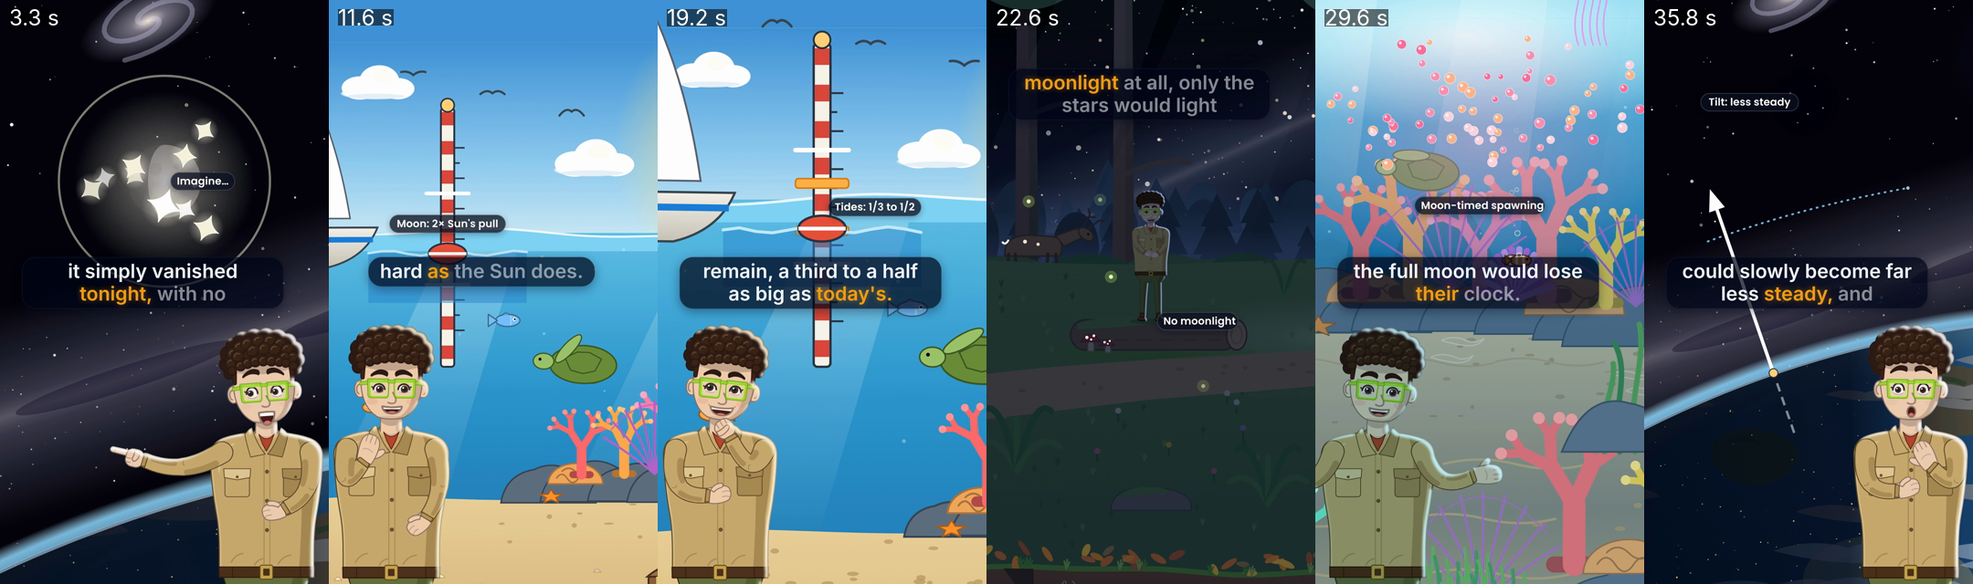
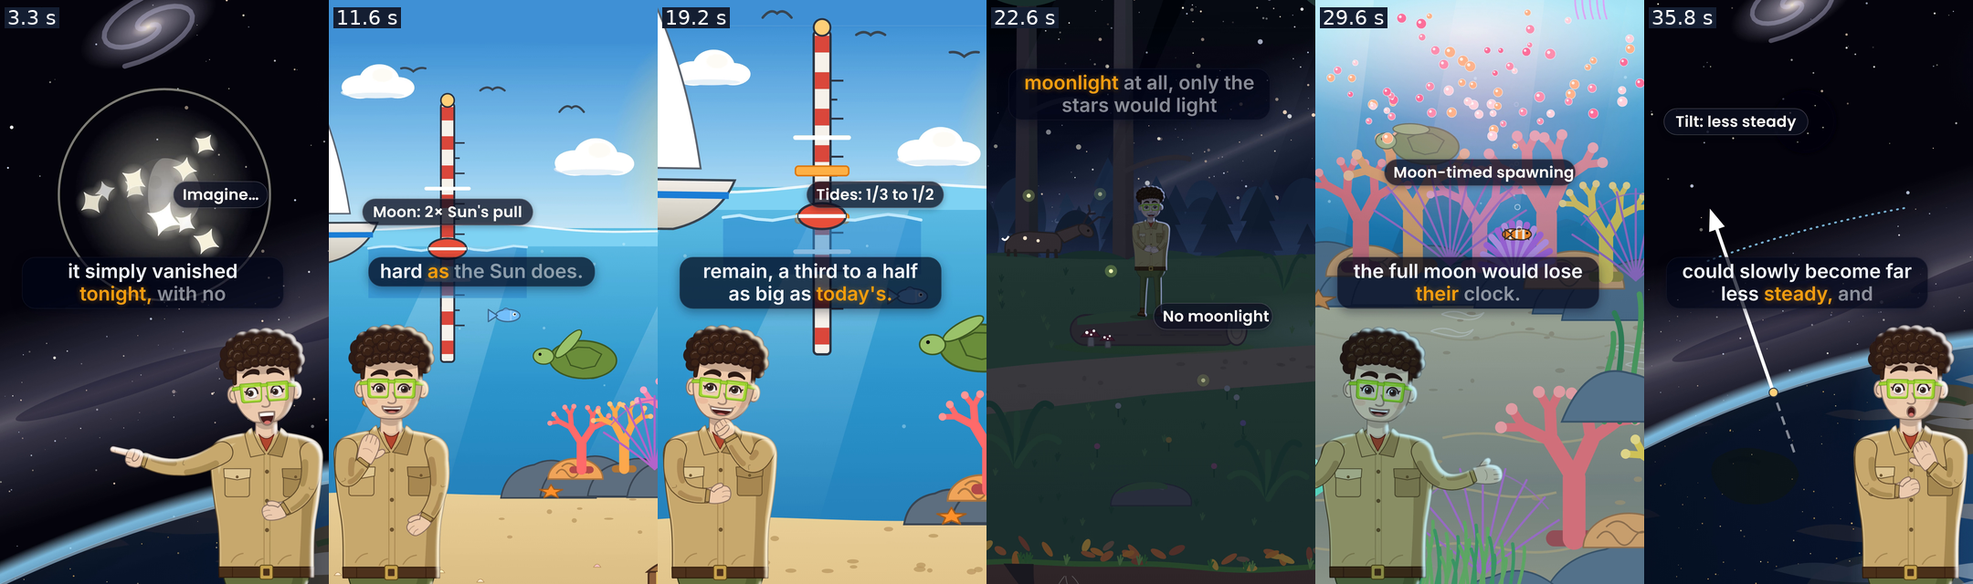
docs: vertical fixtures re-rendered with the new aim and text sizes
Lift pans removed (the camera now frames targets above the captions); pans that are real
reveals or framing choices kept or retuned (sound 1 sky to bridge at zoom 1.0, short 5
pan up 200, short 6 pan down 330, whatif 2 pan down 420, whatif 6 pan down 300). The
short's wave-hit air molecules sit around and above the hit molecule, clear of the
caption band. Validate, overlap and safe-zone clean; sheets regenerated; timings added.

Claude-Session: https://claude.ai/code/session_01Tz5zWaGgMzak1Zwa8mwzTk

diff --git a/tests/fixtures/hf/vertical/short/04-video/hf/scenes/scene-3.js b/tests/fixtures/hf/vertical/short/04-video/hf/scenes/scene-3.js
@@ -37,7 +37,8 @@
       var bl = D.el(defs, "filter", { id: id + "-glow", x: "-50%", y: "-50%", width: "200%", height: "200%" });
       D.el(bl, "feGaussianBlur", { stdDeviation: 10 });
       var R = D.rng(77), mols = [];
-      [[-380, -330], [330, -380], [-470, 250], [420, 300], [-120, 470], [160, -560]].forEach(function (o, i) {
+      // the air molecules sit around and above the hit one, so none lands on the caption band below it
+      [[-380, -330], [330, -380], [-470, -110], [420, -140], [-120, -480], [160, -600]].forEach(function (o, i) {
         mols.push(molecule(g, c.x + (o[0] + (R() - 0.5) * 60) * sp, c.y + (o[1] + (R() - 0.5) * 60) * sp, (0.8 + R() * 0.25) * k));
       });
       var flash = D.el(g, "circle", { cx: c.x, cy: c.y, r: 90 * k, fill: col, opacity: 0, filter: "url(#" + id + "-glow)" });

diff --git a/tests/fixtures/hf/vertical/short/03-design/storyboard.md b/tests/fixtures/hf/vertical/short/03-design/storyboard.md
@@ -7,12 +7,12 @@ Total: 46.525 s, 7 scenes, host step-ins: scene 5; new place: none; custom moves
 ## Scene 1: White sunlight
 - **Place:** `countryside`, variant `day` (library)
 - **Duration:** 5.875 s (177 frames)
-- **Framing:** vertical — the open sky at zoom 0.85, `pan_down` by 450 as the scene opens so the prism hangs in the middle band; the rainbow fans out above the caption band; labels above the prism
+- **Framing:** vertical — the open sky at zoom 0.85 (the camera puts the sky anchor at y 640, so the prism hangs in the middle band); the rainbow fans out above the caption band; labels above the prism
 - **Idea:** White sunlight is a mix of all the colours.
 - **Host:** talks from the bottom-left slot
 - **Cast:** none
 - **Beats:**
-  1. "Why" (0) — the clear blue sky over the farm; the host asks from the bottom-left corner, thinking. Moves: cut target `sky` ×0.85 on 0 s; pan_down by 450 on 0 s; gesture who `host` name `think`; react who `host` expression `curious`
+  1. "Why" (0) — the clear blue sky over the farm; the host asks from the bottom-left corner, thinking. Moves: cut target `sky` ×0.85 on 0 s; gesture who `host` name `think`; react who `host` expression `curious`
   2. "Sunlight" (5) — a beam of white sunlight slants in and passes through a glass prism, which fans it out into all the colours of the rainbow. Moves: custom name `white-light` params {"from": {"x": 700, "y": -300}, "split": 1.68, "prismSize": 190} on "Sunlight" (5); point who `host` target `sky` on "looks" (6); label target `sky` "White light" (above) on "white" (7) until "every" (11); label target `sky` "Every colour" (above) on "colour" (12); react who `host` expression `surprised` on "colour" (12)
 - **Text on screen:** "White light", "Every colour" (4 words in 5.875 s)
 - **Scale:** the prism and beam are illustrative (a metaphor drawn in the sky)
@@ -30,7 +30,7 @@ Total: 46.525 s, 7 scenes, host step-ins: scene 5; new place: none; custom moves
 - **Host:** talks from the bottom-right slot
 - **Cast:** none
 - **Beats:**
-  1. "To" (0) — the white sunbeam crosses the sky; the host points at it. Moves: cut target `sky` ×0.85 on 0 s; pan_down by 450 on 0 s; custom name `white-light` params {"from": {"x": 700, "y": -300}, "split": 99, "showPrism": false} on 0.1 s; point who `host` target `sky` on "that" (4)
+  1. "To" (0) — the white sunbeam crosses the sky; the host points at it. Moves: cut target `sky` ×0.85 on 0 s; custom name `white-light` params {"from": {"x": 700, "y": -300}, "split": 99, "showPrism": false} on 0.1 s; point who `host` target `sky` on "that" (4)
   2. "cross" (8) — the camera dives into the air the light crosses: tiny gas molecules fly about, far apart. Moves: dive target `sky` into `lattice` params {"state": "gas"} on "cross" (8); gesture who `host` name `think` on "which" (11)
 - **Text on screen:** none
 - **Scale:** true to scale (no sizes, speeds or ratios shown)
@@ -48,7 +48,7 @@ Total: 46.525 s, 7 scenes, host step-ins: scene 5; new place: none; custom moves
 - **Host:** talks from the bottom-right slot
 - **Cast:** none
 - **Beats:**
-  1. "Blue" (0) — in the sky, drawn huge, a short choppy blue light wave travels in toward the air molecules. Moves: cut target `sky` ×0.85 on 0 s; pan_down by 450 on 0 s; custom name `wave-hit` params {"color": "#2F7BFF", "wavelength": 70, "hit": 4.5, "scatter": true, "scale": 2.0, "spread": 1.2, "packet": 700, "from": 900} on 0.2 s; label target `sky` "Blue: short waves" (above) on "short" (4); label target `sky` "not to scale" (below) on "short" (4); gesture who `host` name `talk` on "travels" (2)
+  1. "Blue" (0) — in the sky, drawn huge, a short choppy blue light wave travels in toward the air molecules. Moves: cut target `sky` ×0.85 on 0 s; custom name `wave-hit` params {"color": "#2F7BFF", "wavelength": 70, "hit": 4.5, "scatter": true, "scale": 2.0, "spread": 1.2, "packet": 700, "from": 900} on 0.2 s; label target `sky` "Blue: short waves" (above) on "short" (4); label target `sky` "not to scale" (below) on "short" (4); gesture who `host` name `talk` on "travels" (2)
   2. "When" (7) — the wave hits a molecule, which flashes and sends blue light off in every direction. Moves: point who `host` target `sky` on "hits" (9); react who `host` expression `surprised` on "bounces" (13); gesture who `host` name `surprised` on "off" (14)
 - **Text on screen:** "Blue: short waves", "not to scale" (6 words in 7.3 s)
 - **Scale:** not to scale — label "not to scale"
@@ -66,7 +66,7 @@ Total: 46.525 s, 7 scenes, host step-ins: scene 5; new place: none; custom moves
 - **Host:** talks from the bottom-left slot
 - **Cast:** none
 - **Beats:**
-  1. "Red" (0) — a long, lazy red light wave travels in toward the same molecules. Moves: cut target `sky` ×0.85 on 0 s; pan_down by 450 on 0 s; custom name `wave-hit` params {"color": "#E53935", "wavelength": 170, "hit": 3.4, "scatter": false, "scale": 2.0, "spread": 1.2, "packet": 800, "from": 900} on 0.2 s; label target `sky` "Red: long waves" (above) on "long" (4); label target `sky` "not to scale" (below) on "long" (4); gesture who `host` name `think` on "travels" (2)
+  1. "Red" (0) — a long, lazy red light wave travels in toward the same molecules. Moves: cut target `sky` ×0.85 on 0 s; custom name `wave-hit` params {"color": "#E53935", "wavelength": 170, "hit": 3.4, "scatter": false, "scale": 2.0, "spread": 1.2, "packet": 800, "from": 900} on 0.2 s; label target `sky` "Red: long waves" (above) on "long" (4); label target `sky` "not to scale" (below) on "long" (4); gesture who `host` name `think` on "travels" (2)
   2. "so" (7) — the red wave passes straight through and carries on, the molecule barely stirring. Moves: point who `host` target `sky` on "most" (8); react who `host` expression `happy` on "straight" (12)
 - **Text on screen:** "Red: long waves", "not to scale" (6 words in 5.55 s)
 - **Scale:** not to scale — label "not to scale"
@@ -79,12 +79,12 @@ Total: 46.525 s, 7 scenes, host step-ins: scene 5; new place: none; custom moves
 ## Scene 5: Blue from everywhere
 - **Place:** `countryside`, variant `day` (library)
 - **Duration:** 6.2 s (186 frames)
-- **Framing:** vertical — the host at `rail-near` at zoom 1.4, then `pan_up` by 250 at the start so he stands lower in the frame with the big sky above him (captions in the top band while he is out of his slot); the label beside his feet
+- **Framing:** vertical — the host at `rail-near` at zoom 1.4, then `pan_up` by 200 at the start so he stands lower in the frame with the big sky above him (captions in the top band while he is out of his slot); the label beside his feet
 - **Idea:** The scattered blue light comes from every part of the sky, so the sky looks blue.
 - **Host:** step-in — stands at `rail-near` and looks up
 - **Cast:** none
 - **Beats:**
-  1. "So" (0) — the host stands by the meadow rail and looks up; blue light streams down to him from every part of the sky. Moves: cut target `rail-near` ×1.4 on 0 s; pan_up by 250 on 0 s; react who `host` expression `curious`; custom name `sky-rays` params {"anchor": "rail-near", "eye": 380} on "wherever" (1); point who `host` target `sky` on "wherever" (1)
+  1. "So" (0) — the host stands by the meadow rail and looks up; blue light streams down to him from every part of the sky. Moves: cut target `rail-near` ×1.4 on 0 s; pan_up by 200 on 0 s; react who `host` expression `curious`; custom name `sky-rays` params {"anchor": "rail-near", "eye": 380} on "wherever" (1); point who `host` target `sky` on "wherever" (1)
   2. "scattered" (8) — more blue rays arrive from left and right; the host turns and smiles. Moves: gesture who `host` name `point-left` on "scattered" (8); label target `rail-near` "Blue from everywhere" (right) on "blue" (9); react who `host` expression `happy` on "all" (14)
 - **Text on screen:** "Blue from everywhere" (3 words in 6.2 s)
 - **Scale:** true to scale (no sizes, speeds or ratios shown)
@@ -97,12 +97,12 @@ Total: 46.525 s, 7 scenes, host step-ins: scene 5; new place: none; custom moves
 ## Scene 6: Sunset
 - **Place:** `countryside`, variant `sunset` (library)
 - **Duration:** 8.3 s (249 frames)
-- **Framing:** vertical — a tall reveal: opens high in the sunset sky at zoom 0.8 and `pan_down` by 850 to the horizon; the beam crosses just above the caption band, the labels below the sky anchor in the middle band
+- **Framing:** vertical — a tall reveal: opens high in the sunset sky at zoom 0.8 and `pan_down` by 330 to the horizon; the beam crosses just above the caption band, the labels below the sky anchor in the middle band
 - **Idea:** At sunset the long path through the air scatters the blue out, so the sky looks red and orange.
 - **Host:** talks from the bottom-left slot
 - **Cast:** none
 - **Beats:**
-  1. "At" (0) — the view slides down the evening sky to the horizon, where the Sun is low. Moves: cut target `sky` ×0.8 on 0 s; pan_down by 850 on 0 s; gesture who `host` name `think`
+  1. "At" (0) — the view slides down the evening sky to the horizon, where the Sun is low. Moves: cut target `sky` ×0.8 on 0 s; pan_down by 330 on 0 s; gesture who `host` name `think`
   2. "the" (2) — a long, low beam of sunlight crosses the sky; blue sparks peel off it along the way and only orange and red reach the far end. Moves: custom name `sunset-beam` params {"sun": {"x": 480, "y": 520}, "to": {"x": -700, "y": 420}} on "light" (3); label target `sky` "Long path through air" (below) on "crosses" (4) until "Most" (8); point who `host` target `sky` on "crosses" (4); label target `sky` "Blue scattered away" (below) on "blue" (11); react who `host` expression `surprised` on "bounces" (12); gesture who `host` name `celebrate` on "leaving" (18)
 - **Text on screen:** "Long path through air", "Blue scattered away" (7 words in 8.3 s)
 - **Scale:** illustrative (the beam's length stands for the long path through the air)
@@ -120,7 +120,7 @@ Total: 46.525 s, 7 scenes, host step-ins: scene 5; new place: none; custom moves
 - **Host:** talks from the bottom-right slot
 - **Cast:** none
 - **Beats:**
-  1. "So" (0) — back in the blue sky: once more a blue wave hits a molecule and bounces off in every direction. Moves: cut target `sky` ×0.85 on 0 s; pan_down by 450 on 0 s; custom name `wave-hit` params {"color": "#2F7BFF", "wavelength": 70, "hit": 2.0, "scatter": true, "scale": 2.0, "spread": 1.2, "packet": 700, "from": 900} on 0.1 s; label target `sky` "not to scale" (below) on "sunlight" (5); gesture who `host` name `talk` on "a" (1)
+  1. "So" (0) — back in the blue sky: once more a blue wave hits a molecule and bounces off in every direction. Moves: cut target `sky` ×0.85 on 0 s; custom name `wave-hit` params {"color": "#2F7BFF", "wavelength": 70, "hit": 2.0, "scatter": true, "scale": 2.0, "spread": 1.2, "packet": 700, "from": 900} on 0.1 s; label target `sky` "not to scale" (below) on "sunlight" (5); gesture who `host` name `talk` on "a" (1)
   2. "Look" (9) — the host invites the viewer to look at the next sunset and tell him the colours. Moves: gesture who `host` name `wave` on "Look" (9); react who `host` expression `happy` on "Look" (9); gesture who `host` name `celebrate` on "tell" (16)
 - **Text on screen:** "not to scale" (3 words in 7.05 s)
 - **Scale:** not to scale (the molecule and wave are drawn huge)

diff --git a/tests/fixtures/hf/vertical/whatif/03-design/storyboard.md b/tests/fixtures/hf/vertical/whatif/03-design/storyboard.md
@@ -7,12 +7,12 @@ Total: 45.5 s, 7 scenes, host step-ins: scene 4; new place: none; custom moves: 
 ## Scene 1: The question
 - **Place:** `space`, variant `earth-orbit` (library)
 - **Duration:** 6.475 s (195 frames)
-- **Framing:** vertical — the Moon at zoom 1.0, `pan_down` by 460 as the scene opens so the Moon settles in the middle band with Earth's limb below, behind the host; the labels left and right of the Moon
+- **Framing:** vertical — the Moon at zoom 1.0, framed in the middle band with Earth's limb below, behind the host; the labels left and right of the Moon
 - **Idea:** We are imagining a world with no Moon.
 - **Host:** talks from the bottom-right slot
 - **Cast:** none
 - **Beats:**
-  1. "What" (0) — the Moon hangs above Earth's bright limb; the host wonders from the bottom-right corner as the view settles on the Moon. Moves: cut target `moon` ×1.0 on 0 s; pan_down by 460 on 0 s; gesture who `host` name `think`; react who `host` expression `curious`; label target `moon` "not to scale" (left) on "disappeared" (4) until "vanished" (8)
+  1. "What" (0) — the Moon hangs above Earth's bright limb; the host wonders from the bottom-right corner as the view settles on the Moon. Moves: cut target `moon` ×1.0 on 0 s; gesture who `host` name `think`; react who `host` expression `curious`; label target `moon` "not to scale" (left) on "disappeared" (4) until "vanished" (8)
   2. "Imagine" (5) — imagined: the Moon flashes and vanishes, leaving empty space; the host is amazed. Moves: label target `moon` "Imagine…" (right) on "Imagine" (5); point who `host` target `moon` on "Imagine" (5); custom name `moon-vanish` on "vanished" (8); sparkle target `moon` on "vanished" (8); react who `host` expression `surprised` on "vanished" (8); gesture who `host` name `shrug` on "What" (13)
 - **Text on screen:** "not to scale", "Imagine…" (4 words in 6.475 s)
 - **Scale:** not to scale — label "not to scale" on the Moon
@@ -25,12 +25,12 @@ Total: 45.5 s, 7 scenes, host step-ins: scene 4; new place: none; custom moves: 
 ## Scene 2: The Moon's pull
 - **Place:** `ocean`, variant `surface` (library)
 - **Duration:** 7.1 s (213 frames)
-- **Framing:** vertical — opens on the open sky above the sea and `pan_down` by 820 (a tall reveal) to the tide pole, which lands in the middle band; the label above the water
+- **Framing:** vertical — opens on the open sky above the sea and `pan_down` by 420 (a tall reveal) to the tide pole, which lands in the middle band; the label above the water
 - **Idea:** The Moon raises most of our tides.
 - **Host:** talks from the bottom-left slot
 - **Cast:** none
 - **Beats:**
-  1. "First" (0) — the view drops from the open sky to a tide pole in the sea, where the water and its float rise and fall over today's full range. Moves: cut target `sky` ×1.0 on 0 s; pan_down by 820 on "First" (0); custom name `tide-gauge` params {"period": 2.0, "range": 150, "ratio": 1, "bands": false} on 0 s; gesture who `host` name `think` on "tides" (2)
+  1. "First" (0) — the view drops from the open sky to a tide pole in the sea, where the water and its float rise and fall over today's full range. Moves: cut target `sky` ×1.0 on 0 s; pan_down by 420 on "First" (0); custom name `tide-gauge` params {"period": 2.0, "range": 150, "ratio": 1, "bands": false} on 0 s; gesture who `host` name `think` on "tides" (2)
   2. "Today" (5) — the host points at the pole: the Moon's pull, about twice the Sun's, lifts most of today's tide. Moves: point who `host` target `surface` on "Moon" (7); label target `surface` "Moon: 2× Sun's pull" (above) on "about" (12); react who `host` expression `happy` on "twice" (13)
 - **Text on screen:** "Moon: 2× Sun's pull" (4 words in 7.1 s)
 - **Scale:** true to scale (no sizes, speeds or ratios shown)
@@ -43,12 +43,12 @@ Total: 45.5 s, 7 scenes, host step-ins: scene 4; new place: none; custom moves: 
 ## Scene 3: Smaller tides
 - **Place:** `ocean`, variant `surface` (library)
 - **Duration:** 6.075 s (183 frames)
-- **Framing:** vertical — closer on the tide pole (zoom 1.25), `pan_down` by 300 at the start so the water line sits above the caption band; the label right of the pole
+- **Framing:** vertical — closer on the tide pole (zoom 1.25); the water line sits above the caption band; the label right of the pole
 - **Idea:** Without the Moon, only the Sun's much smaller tides remain.
 - **Host:** talks from the bottom-left slot
 - **Cast:** none
 - **Beats:**
-  1. "Only" (0) — close on the tide pole: still the full range of today's tides. Moves: cut target `surface` ×1.25 on 0 s; pan_down by 300 on 0 s; custom name `tide-gauge` params {"period": 2.0, "range": 150, "ratio": 0.42, "band": [0.333, 0.5]} on "tides" (5); say who `host` until "remain" (7)
+  1. "Only" (0) — close on the tide pole: still the full range of today's tides. Moves: cut target `surface` ×1.25 on 0 s; custom name `tide-gauge` params {"period": 2.0, "range": 150, "ratio": 0.42, "band": [0.333, 0.5]} on "tides" (5); say who `host` until "remain" (7)
   2. "a" (8) — the rise and fall shrinks to a smaller bob inside the new orange bands, a third to a half of the old range; the host points at it. Moves: point who `host` target `surface` on "a" (8); label target `surface` "Tides: 1/3 to 1/2" (right) on "third" (9); gesture who `host` name `think` on "big" (14)
 - **Text on screen:** "Tides: 1/3 to 1/2" (4 words in 6.075 s)
 - **Scale:** true to scale (no sizes, speeds or ratios shown)
@@ -78,12 +78,12 @@ Total: 45.5 s, 7 scenes, host step-ins: scene 4; new place: none; custom moves: 
 ## Scene 5: Lost clocks
 - **Place:** `ocean`, variant `underwater` (library)
 - **Duration:** 5.475 s (165 frames)
-- **Framing:** vertical — the reef at zoom 1.0, `pan_down` by 330 at the start so the corals sit in the middle band and the rising bundles fill the water above; the label above the reef
+- **Framing:** vertical — the reef at zoom 1.0, the corals in the middle band and the rising bundles fill the water above; the label above the reef
 - **Idea:** Some living things time their lives by the Moon.
 - **Host:** talks from the bottom-left slot
 - **Cast:** none
 - **Beats:**
-  1. "On" (0) — down on the reef at night-blue depth; the host points at the corals from the bottom-left corner. Moves: cut target `reef` ×1.0 on 0 s; pan_down by 330 on 0 s; point who `host` target `reef` on "reef" (2)
+  1. "On" (0) — down on the reef at night-blue depth; the host points at the corals from the bottom-left corner. Moves: cut target `reef` ×1.0 on 0 s; point who `host` target `reef` on "reef" (2)
   2. "corals" (3) — the corals release clouds of tiny pink bundles that drift up toward the moonlit surface. Moves: custom name `coral-spawn` on "spawn" (5); label target `reef` "Moon-timed spawning" (above) on "light" (8); gesture who `host` name `surprised` on "by" (6); gesture who `host` name `shrug` on "lose" (14)
 - **Text on screen:** "Moon-timed spawning" (2 words in 5.475 s)
 - **Scale:** not to scale — the bundles are drawn larger than life (stated in the facts; the reef itself is true to its look)
@@ -96,12 +96,12 @@ Total: 45.5 s, 7 scenes, host step-ins: scene 4; new place: none; custom moves: 
 ## Scene 6: A wobblier Earth
 - **Place:** `space`, variant `earth-orbit` (library)
 - **Duration:** 6.725 s (202 frames)
-- **Framing:** vertical — the empty patch of sky where the Moon was (zoom 0.8), `pan_down` by 820 at the start so Earth's limb sits low and the axis stands in the middle band, the space station out of frame; labels above and left of the Moon's (empty) place
+- **Framing:** vertical — the empty patch of sky where the Moon was (zoom 0.8), `pan_down` by 300 at the start so Earth's limb sits low and the axis stands in the middle band, the space station out of frame; labels above and left of the Moon's (empty) place
 - **Idea:** The Moon helps keep Earth's tilt steady over very long times.
 - **Host:** talks from the bottom-right slot
 - **Cast:** none
 - **Beats:**
-  1. "And" (0) — Earth's spin axis sticks out of the planet, swaying only slightly; still the imagined world, so the Moon stays gone. Moves: cut target `moon` ×0.8 on 0 s; pan_down by 820 on 0 s; custom name `moon-vanish` params {"gone": true} on 0 s; gesture who `host` name `think`; label target `moon` "not to scale" (above) on "of" (3); point who `host` target `moon` on "Earth's" (5)
+  1. "And" (0) — Earth's spin axis sticks out of the planet, swaying only slightly; still the imagined world, so the Moon stays gone. Moves: cut target `moon` ×0.8 on 0 s; pan_down by 300 on 0 s; custom name `moon-vanish` params {"gone": true} on 0 s; gesture who `host` name `think`; label target `moon` "not to scale" (above) on "of" (3); point who `host` target `moon` on "Earth's" (5)
   2. "Earth's" (5) — the axis starts to swing wider and wider; the host is surprised. Moves: custom name `axis-wobble` params {"swing": 5, "base": -15} on "tilt" (6); label target `moon` "Tilt: less steady" (left) on "far" (10); react who `host` expression `surprised` on "far" (10); gesture who `host` name `surprised` on "and" (13)
 - **Text on screen:** "not to scale", "Tilt: less steady" (6 words in 6.725 s)
 - **Scale:** not to scale — label "not to scale"
@@ -119,7 +119,7 @@ Total: 45.5 s, 7 scenes, host step-ins: scene 4; new place: none; custom moves: 
 - **Host:** talks from the bottom-left slot
 - **Cast:** none
 - **Beats:**
-  1. "But" (0) — back in the real world: the Moon is there again above Earth, glowing softly; the host points at it, happy. Moves: cut target `moon` ×1.0 on 0 s; pan_down by 460 on 0 s; glow target `moon` on "Moon" (3); point who `host` target `moon` on "the" (1); react who `host` expression `happy` on "Moon" (3); label target `moon` "not to scale" (right) on "still" (5)
+  1. "But" (0) — back in the real world: the Moon is there again above Earth, glowing softly; the host points at it, happy. Moves: cut target `moon` ×1.0 on 0 s; glow target `moon` on "Moon" (3); point who `host` target `moon` on "the" (1); react who `host` expression `happy` on "Moon" (3); label target `moon` "not to scale" (right) on "still" (5)
   2. "Which" (13) — the host turns to the viewer and asks which change they would miss most. Moves: gesture who `host` name `think` on "Which" (13); gesture who `host` name `wave` on "Tell" (19)
 - **Text on screen:** "not to scale" (3 words in 7.525 s)
 - **Scale:** not to scale — label "not to scale"

diff --git a/docs/hf/README.md b/docs/hf/README.md
@@ -244,6 +244,18 @@ adds its rebuild, `hyperframes check` and the mux.
 | whatif | 45.5 s | 7 | 19 s (+ 3 short re-records, 10–13 s each, to reach 45 s) | 82–85 s | 16 s / 2 s / 3 s | 408.8 s | 496 s | 9.0× |
 | short | 46.5 s | 7 | 21 s (+ 1 re-record, 11 s) | 127 s | 16 s / 2 s / 3 s | 336.5 s | 468 s | 7.2× |
 
+**Re-render after the 2026-11-28 fix wave** (new camera aim and text sizes; same voice and mix; one
+render at a time, `--workers 1`, no retry needed):
+
+| Video | Length | Build + check | Snapshots / overlap / safe-zone | Render (`hyperframes render`) | Full render call | Render ÷ length |
+|---|---|---|---|---|---|---|
+| sound | 52.1 s | 105 s | 15 s / 2 s / 2 s | 451.4 s | 562 s | 8.7× |
+| whatif | 45.6 s | 61 s | 13 s / 2 s / 2 s | 398.1 s | 465 s | 8.7× |
+| short | 46.6 s | 101–104 s | 14 s / 2 s / 2 s | 262.7 s (first run after the aim change: 353.4 s) | 265 s | 5.6× |
+
+The same machine gave 263–451 s for videos of almost the same length, so treat these as a range
+(about 5.5–9× the video's length with one worker), not exact figures.
+
 The audio mix took about 3 s per video. Authoring (my own wall clock, from the first script line
 to the last fix): about 10 minutes reading the plan, agent files and kit; 5 minutes for three
 scripts; 5 minutes of voice and transcript checks; then about 11 minutes for `sound` (kit only,
@@ -255,20 +267,28 @@ rendered. In all about **75 minutes for 144 s of finished vertical video**, of w
 **Honest note.** One worker renders a 45–52 s short in 5–7 minutes here (5.6–9× its length;
 the space and ocean scenes of `whatif` are the slowest). That is a safe setting, not a fast one:
 the landscape fixtures above rendered with 2 workers (3.3–10× their length, not measured
-side by side), but vertical renders with 2 workers were cancelled under load on this 4-CPU machine, so it is worth one try of 2 workers on the owner's PC before
-choosing a default. The render tool picks its workers in `tools/hf/render.py`: `--workers N`
-when given (`tools.render.render` and `tools.hf.render` both pass it through), otherwise
-`default_workers()` = half the CPUs, at least 1 (2 here). There is no automatic retry with
-fewer workers yet; a cancelled render simply fails.
+side by side), but vertical renders with 2 workers were cancelled under load on this 4-CPU machine.
+The render tool picks its workers in `tools/hf/render.py`: `--workers N` when given
+(`tools.render.render` and `tools.hf.render` both pass it through), otherwise half the CPUs (at
+least 1), **capped at 2 for a vertical video**. Since the 2026-11-28 fix wave a render that is
+cancelled with more than 1 worker (`render_cancelled…`, a worker cancelled) is **retried once
+with 1 worker**, with the message "Render was interrupted; retrying with 1 worker, this is
+slower." (`render.log` then says `note: the render was interrupted and finished on a retry with
+1 worker`). Without `ffprobe` the size check of the finished video cannot run: the render now
+prints a clear warning (install FFmpeg) instead of skipping it silently.
 
 ### What I saw and fixed (three or more look/fix rounds per video)
 
-The main lesson, for every vertical shot: a camera move onto an **anchor** puts that point at
-55 % of the frame height (y ≈ 1056), right under the caption band, while a move onto an
-**actor** puts his feet at y 700. So most anchor shots open with a short `pan_down` (by 300–850
-world px, about a second) that lifts the ground or the thing into the middle band; the world's
-bottom edge limits how far a pan can go at low zoom (the camera clamps), so the closer shots use
-a higher zoom.
+The main lesson, for every vertical shot (as first made): a camera move onto an **anchor** put
+that point at 55 % of the frame height (y ≈ 1056), right under the caption band, so most anchor
+shots opened with a short `pan_down` to lift it. **Fixed in the 2026-11-28 fix wave:** in a
+vertical frame the camera now puts an anchor at **y 640** while the host is in his slot (clear
+above the captions, 840–1020) and at **y 1040** while he is out of it (the captions are then in
+the top band, 220–400); an actor's feet go to y 780 (y 1040 while the host is out). The lift
+pans were removed from the three fixtures; the pans left are real reveals or framing choices
+(sound scene 1 sky → bridge, whatif scene 2 sky → sea and scene 6, short scenes 5 and 6, the
+forest pan up). Near the world's bottom edge at low zoom the camera still clamps, so a target
+there sits lower (the lake at zoom 1 sits at y ≈ 870): zoom in a little.
 
 - **sound:** the rail sat under the captions in every anchor shot → the opening pans to the lake
   so the bridge rail lands above the captions; the lake shot is closer (zoom 1.4) with a pan down
@@ -290,15 +310,17 @@ a higher zoom.
   check is clean; scene 2's beam showed a prism with nothing coming out → no prism there; the
   host's step-in was small with soil filling the frame → zoom 1.4 with a pan up; the
   sky-rays label covered his face when he turned → moved to his feet; two sunset labels touched
-  for one sample → the first ends a word earlier.
+  for one sample → the first ends a word earlier. Fix wave (2026-11-28): the air molecules of
+  `wave-hit` sat on the caption band's edges → they now sit around and above the hit molecule.
 
 ### Known limits (not fixed)
 
-- Labels and tags are small on a phone (about 30–35 px text in the 1080 px frame): readable at
-  full size, tight at 360 px wide. Their size is the kit's, not the fixtures'.
+- Labels and tags were small on a phone (34–38 px text). **Fixed 2026-11-28:** in vertical, tags
+  are 56 px and labels 50 px (about 1.5×; captions are 64 px), shrunk only as far as a long text
+  needs to fit the safe zone's width.
 - Many anchor shots spend their lower half on the cut-away ground under the host (soil, rock):
   it is drawn and not empty, but it is the part of the frame the viewer looks at least.
-- The opening pan of an anchor shot takes about a second, so the first frames of those scenes
-  still show the target under the captions.
+- (Fixed 2026-11-28: anchor shots no longer need an opening lift pan, so the first frames no
+  longer show the target under the captions.)
 - `rooftop-night`'s Moon cannot be centred in a vertical frame (see whatif above).
 - The transcript check flags spelling only ("metres"/"meters", "colour"/"color").

diff --git a/tests/fixtures/hf/vertical/sound/03-design/storyboard.md b/tests/fixtures/hf/vertical/sound/03-design/storyboard.md
@@ -7,13 +7,13 @@ Total: 52.0 s, 8 scenes, host step-ins: scenes 2, 4; new place: none; custom mov
 ## Scene 1: The question
 - **Place:** `countryside`, variant `day` (library)
 - **Duration:** 5.125 s (154 frames)
-- **Framing:** vertical — opens high in the sky (zoom 0.8), `pan_down` to the trestle bridge over the lake (the reveal sky → ground); the bridge rail lands just above the caption band and its label above it
+- **Framing:** vertical — opens high in the sky (zoom 1.0), `pan_down` to the trestle bridge over the lake (the reveal sky → ground); the bridge rail lands in the middle band, above the captions and its label above it
 - **Idea:** We will compare how fast sound moves through different things.
 - **Host:** talks from the bottom-left slot
 - **Cast:** none
 - **Beats:**
-  1. "Where" (0) — the view starts high in the summer sky over the farm; the host asks from the bottom-left corner, thinking. Moves: cut target `sky` ×0.8; gesture who `host` name `think`; react who `host` expression `curious`
-  2. "travel" (3) — the view slides down from the sky to the railway bridge over the lake; the host points at the steel rail. Moves: pan_down to `lake`; point who `host` target `bridge` on "strike" (6); label target `bridge` "Steel rail" (above) on "steel" (8)
+  1. "Where" (0) — the view starts high in the summer sky over the farm; the host asks from the bottom-left corner, thinking. Moves: cut target `sky` ×1.0; gesture who `host` name `think`; react who `host` expression `curious`
+  2. "travel" (3) — the view slides down from the sky to the railway bridge over the lake; the host points at the steel rail. Moves: pan_down to `bridge`; point who `host` target `bridge` on "strike" (6); label target `bridge` "Steel rail" (above) on "steel" (8)
 - **Text on screen:** "Steel rail" (2 words in 5.125 s)
 - **Scale:** true to scale (no sizes, speeds or ratios shown)
 - **Facts:** a steel railway runs through the countryside
@@ -41,12 +41,12 @@ Total: 52.0 s, 8 scenes, host step-ins: scenes 2, 4; new place: none; custom mov
 ## Scene 3: Water
 - **Place:** `countryside`, variant `day` (library)
 - **Duration:** 7.175 s (216 frames)
-- **Framing:** vertical — close on the lake (zoom 1.4), `pan_down` by 380 at the start so the water sits in the middle band above the captions; the label above the lake's centre
+- **Framing:** vertical — close on the lake (zoom 1.4); the water sits in the middle band above the captions; the label above the lake's centre
 - **Idea:** Sound is more than four times faster in water than in air.
 - **Host:** talks from the bottom-right slot
 - **Cast:** none
 - **Beats:**
-  1. "In" (0) — the camera drops to the lake under the trestle bridge; the host points at it from the bottom-right corner. Moves: cut target `lake` ×1.4; pan_down by 380; point who `host` target `lake` on "water" (1)
+  1. "In" (0) — the camera drops to the lake under the trestle bridge; the host points at it from the bottom-right corner. Moves: cut target `lake` ×1.4; point who `host` target `lake` on "water" (1)
   2. "more" (4) — quick ripples of sound race out through the water, much faster than the rings in the air. Moves: rings target `lake` on "more" (4); gesture who `host` name `surprised` on "four" (6); label target `lake` "Water: 1,480 m/s" (above) on "1,480" (10)
 - **Text on screen:** "Water: 1,480 m/s" (3 words in 7.175 s)
 - **Scale:** true to scale: ripples at 745 px/s (see scene 2)
